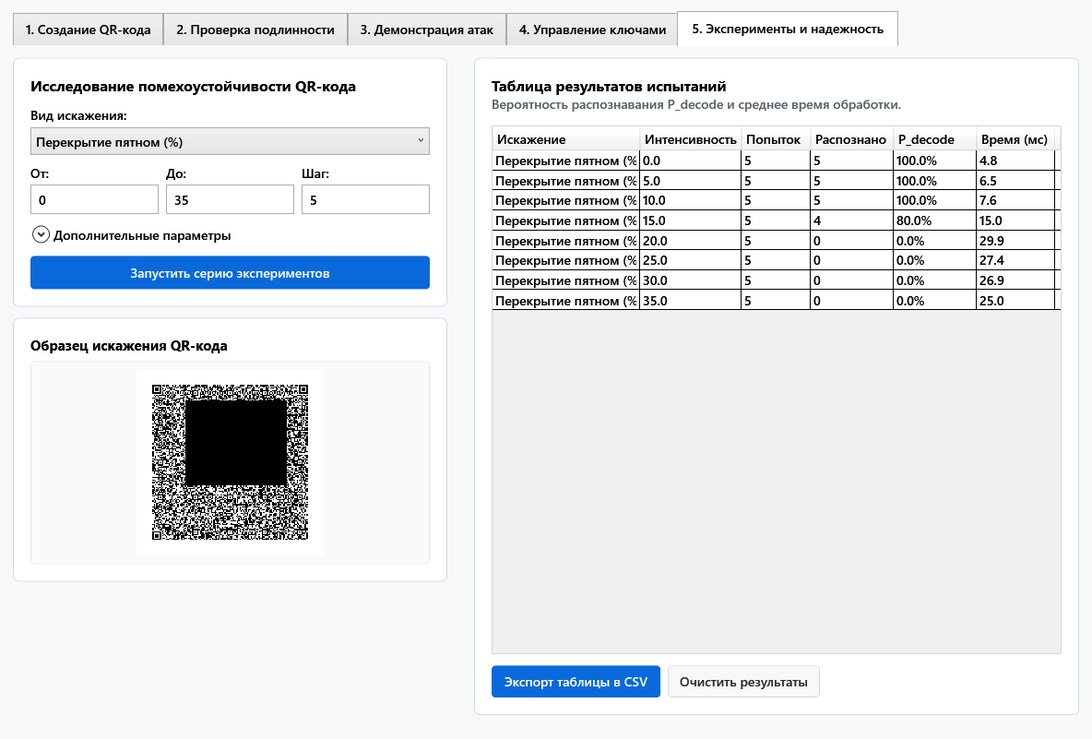
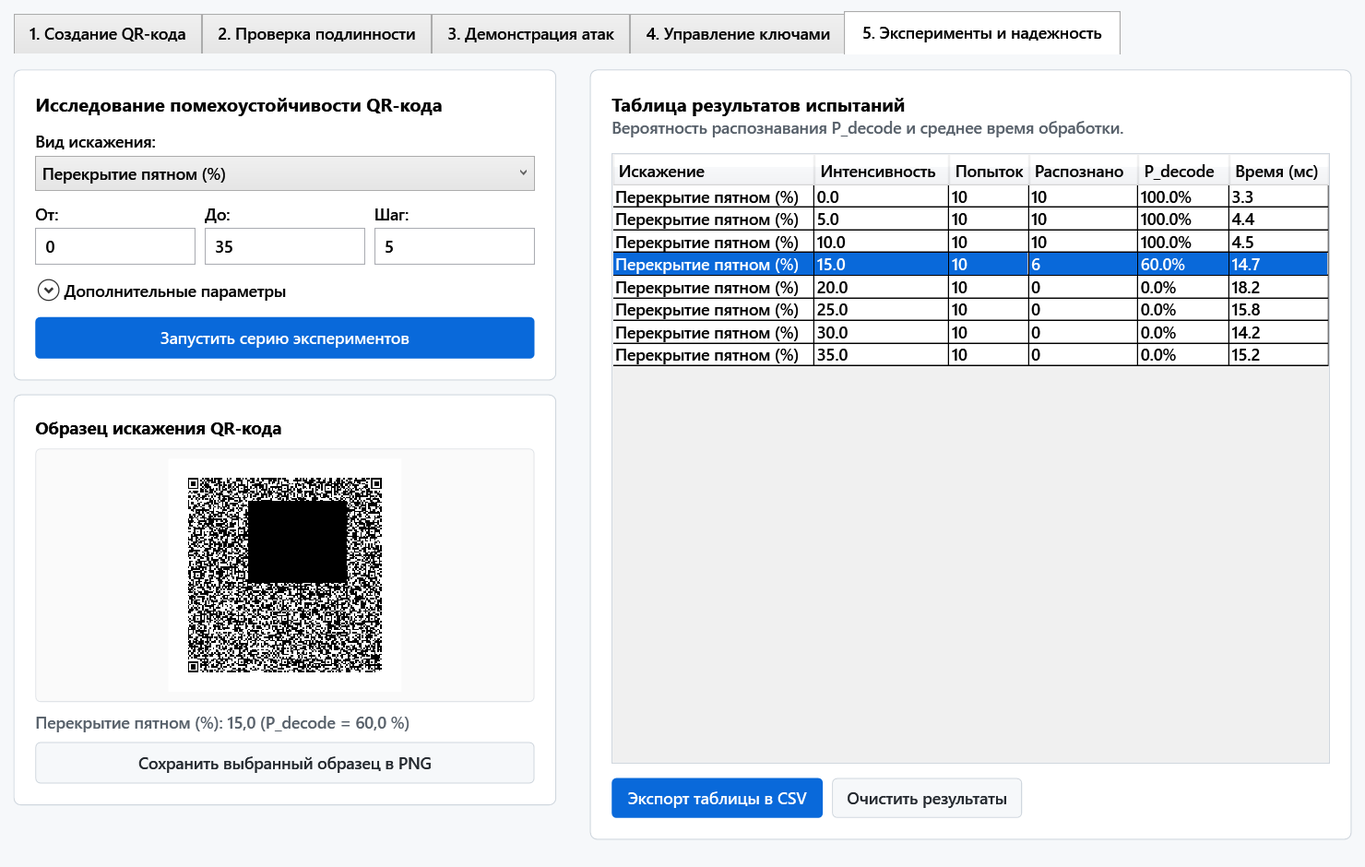
Обновление README.md: Новые фотографии

diff --git a/README.md b/README.md
@@ -12,13 +12,13 @@
    Перед подписанием реквизиты документа приводятся к детерминированному байтовому представлению в кодировке UTF-8:
    - фиксированный порядок следования полей (`v`, `alg`, `kid`, `data`);
    - нормализация строк (обрезка краевых пробелов);
-   - стандартное представление дат (`yyyy-MM-dd`);
+   - представление дат в формате `dd.MM.yyyy`;
    - отсутствие лишних пробельных символов и отступов.
 2. **Формирование цифровой подписи (`SignatureService`)**:  
    Над каноническим байтовым массивом вычисляется цифровая подпись по современному криптографическому стандарту RSA-PSS с использованием хеш-функции SHA-256 (длина ключа 2048 или 3072 бит).
 3. **Компактное кодирование (`Base64Url`)**:  
    Двоичная подпись кодируется в безопасный для URL и QR-сканеров формат Base64URL (без символов `+`, `/` и без хвостового выравнивания `=`).
-4. **Формат контейнера (`SignedPayload`)**:
+4. **Формат контейнера (`SignedPayload`)**. Подписанный JSON перед шифрованием имеет следующую структуру.
    ```json
    {
    	"v": 1,
@@ -27,14 +27,14 @@
    	"data": {
    		"document": "DOC-2026-49328",
    		"owner": "Иванов Иван Иванович",
-   		"issued": "2026-09-18",
-   		"expires": "2031-09-18"
+		"issued": "23.11.2026",
+		"expires": "23.11.2031"
    	},
    	"signature": "O_8xN-3V..."
    }
    ```
-5. **Модель доверия (`TrustedKeyStore`)**:  
-   Проверяющая сторона никогда не доверяет открытому ключу, извлеченному из самого QR-кода. Проверка подписи осуществляется исключительно по ключам, предварительно добавленным в локальное доверенное хранилище (`TrustedKeyStore`), сопоставляемым по отпечатку `kid`.
+5. **Шифрование контейнера (`PayloadEncryptionService`)**. Подписанный JSON шифруется симметричным ключом с помощью Feistel-128-CBC. В QR-код записывается строка `ENC1.<Base64Url(IV + Ciphertext)>`.
+6. **Модель доверия (`TrustedKeyStore`)**. Открытый ключ издателя для проверки подписи выбирается из локального реестра доверенных ключей по идентификатору `kid`.
 
 ---
 
@@ -71,42 +71,44 @@ QrAuthenticity.Cutted.Tests/
 Ниже перечислены классы полного приложения внутри каталога `QrAuthenticity/`.
 
 - `Cryptography/`
-  - `KeyManager.cs` — генерация пар RSA-2048/3072, экспорт/импорт в PEM, расчет Key ID.
-  - `SignatureService.cs` — вычисление и проверка подписи RSA-PSS-SHA256.
-  - `TrustedKeyStore.cs` — реестр доверенных открытых ключей издателей.
+  - `KeyManager.cs` – генерация пар RSA-2048/3072, экспорт/импорт в PEM, расчет Key ID.
+  - `SignatureService.cs` – вычисление и проверка подписи RSA-PSS-SHA256.
+  - `FeistelCipher.cs` – симметричное шифрование Feistel-128-CBC.
+  - `PayloadEncryptionService.cs` – шифрование и расшифрование контейнера `ENC1.`.
+  - `TrustedKeyStore.cs` – реестр доверенных открытых ключей издателей.
 - `Models/`
-  - `DocumentData.cs` — доменная модель реквизитов документа с валидацией.
-  - `SignedPayload.cs` — транспортная модель подписанного контейнера.
-  - `VerificationResult.cs` — статусная модель проверки подлинности.
-  - `ExperimentResult.cs` — модель измерений устойчивости к помехам.
-  - `TrustedKeyEntry.cs` — запись доверенного ключа с метаданными.
+  - `DocumentData.cs` – доменная модель реквизитов документа с валидацией.
+  - `SignedPayload.cs` – транспортная модель подписанного контейнера.
+  - `VerificationResult.cs` – статусная модель проверки подлинности.
+  - `ExperimentResult.cs` – модель измерений устойчивости к помехам.
+  - `TrustedKeyEntry.cs` – запись доверенного ключа с метаданными.
 - `Serialization/`
-  - `PayloadCanonicalizer.cs` — канонизатор байтов для цифровой подписи.
-  - `PayloadCodec.cs` — сериализатор/десериализатор полного JSON.
-  - `Base64Url.cs` — конвертер Base64Url.
+  - `PayloadCanonicalizer.cs` – канонизатор байтов для цифровой подписи.
+  - `PayloadCodec.cs` – сериализатор/десериализатор полного JSON.
+  - `Base64Url.cs` – конвертер Base64Url.
 - `Services/`
-  - `PayloadCreationService.cs` — оркестратор создания и подписания контейнера.
+  - `PayloadCreationService.cs` – оркестратор создания и подписания контейнера.
 - `Verification/`
-  - `AuthenticityVerifier.cs` — проверка формата, доверия, подписи и срока действия.
+  - `AuthenticityVerifier.cs` – проверка формата, доверия, подписи и срока действия.
 - `QR/`
-  - `QrCodeService.cs` — генерация матриц QR с уровнями Рида-Соломона (L, M, Q, H), декодирование растра.
+  - `QrCodeService.cs` – генерация матриц QR с уровнями Рида-Соломона (L, M, Q, H), декодирование растра.
 - `Experiments/`
-  - `ImageDistortionService.cs` — 7 моделей оптических и физических искажений (наклон, шум, перекрытие, размытие и т.д.).
-  - `ExperimentRunner.cs` — выполнение серийных испытаний и расчет вероятности распознавания $P_{\text{decode}}$.
-  - `StatisticsService.cs` — выгрузка результатов серий в CSV.
-- `MainWindow.xaml` / `MainWindow.xaml.cs` — графический интерфейс (5 рабочих вкладок).
+  - `ImageDistortionService.cs` – 7 моделей оптических и физических искажений (наклон, шум, перекрытие, размытие и т.д.).
+  - `ExperimentRunner.cs` – выполнение серийных испытаний и расчет вероятности распознавания $P_{\text{decode}}$.
+  - `StatisticsService.cs` – выгрузка результатов серий в CSV.
+- `MainWindow.xaml` / `MainWindow.xaml.cs` – графический интерфейс (5 рабочих вкладок).
 
 ---
 
 ## 4. Графический интерфейс
 
 1. **Создание QR-кода**: ввод реквизитов, выбор уровня коррекции Рида-Соломона (L, M, Q, H), подпись закрытым ключом, сохранение в PNG.
-2. **Проверка подлинности**: загрузка изображения QR-кода, мгновенная верификация с цветовой индикацией статуса и извлечением реквизитов.
+2. **Проверка подлинности** – проверка QR-кода по изображению или считанному тексту с цветовой индикацией статуса и выводом реквизитов.
 3. **Демонстрация атак**:
    - _Атака 1_: изменение полей документа со старой подписью (выявление нарушения целостности).
    - _Атака 2_: переподпись чужим закрытым ключом (выявление отсутствия доверия к источнику).
 4. **Управление ключами**: создание пар RSA, экспорт закрытых и открытых ключей (PEM), ведение реестра доверенных ключей.
-5. **Эксперименты и надежность**: моделирование физических дефектов QR-кода, запуск серий, таблица результатов и экспорт данных в CSV.
+5. **Эксперименты и надежность** – моделирование искажений QR-кода, запуск и остановка серий, просмотр образцов, сохранение PNG и экспорт результатов в CSV.
 
 ---
 
@@ -172,8 +174,8 @@ dotnet build QrAuthenticity.sln -c Release-SingleFile
 
 При первом запуске программа автоматически генерирует стартовую ключевую пару **RSA-2048** («Центральный орган сертификации»), сохраняет её рядом с исполняемым файлом (внутри `app\` для `*-Standalone`) в каталогах:
 
-- `trusted-keys\trusted_keys.json` — локальный реестр доверенных открытых ключей;
-- `private-keys\<KeyID>.pem` — изолированные закрытые ключи для формирования подписи;
+- `trusted-keys\trusted_keys.json` – локальный реестр доверенных открытых ключей;
+- `private-keys\<KeyID>.pem` – изолированные закрытые ключи для формирования подписи;
 
 и сразу открывает первую вкладку с готовым демонстрационным QR-кодом.
 
@@ -183,19 +185,15 @@ dotnet build QrAuthenticity.sln -c Release-SingleFile
 
 1. В блоке **«Реквизиты документа»** введите:
    - **Номер документа** и **ФИО владельца документа** (обязательные поля);
-   - **Дату выдачи** и **Дату окончания** (если документ бессрочный, очистите поле «Дата окончания» — в контейнер запишется `null`). Дата окончания не может быть раньше даты выдачи.
-2. Выберите **уровень коррекции ошибок Рида-Соломона**:
-   - `L` (~7% повреждений) — минимальный размер матрицы;
-   - `M` (~15% повреждений);
-   - `Q` (~25% повреждений, по умолчанию) — оптимальный баланс плотности и устойчивости;
-   - `H` (~30% повреждений) — максимальная защита от затираний и пятен.
+   - **Дату выдачи** и **Дату окончания** (если документ бессрочный, очистите поле «Дата окончания» – в контейнер запишется `null`). Дата окончания не может быть раньше даты выдачи.
+2. Выберите **уровень коррекции ошибок Рида–Соломона**. Доступны `L`, `M`, `Q` и `H`. По умолчанию выбран `Q`.
 3. В блоке **«Параметры безопасности и криптографии»** при необходимости:
    - выберите **ключ для цифровой подписи (`Key ID`)** из выпадающего списка (по умолчанию активен созданный ключ);
    - оставьте **симметричный ключ приложения** по умолчанию (`QrAuthenticity-MasterKey-2026-Feistel`) или введите собственный секрет для шифрования контейнера `ENC1.` алгоритмом Feistel-128-CBC (кнопка **«Сброс»** возвращает ключ по умолчанию).
-4. Нажмите **«Сформировать QR»** — в правой части появится изображение QR-кода (`600×600 px`) и строка метрик (размер контейнера в байтах, уровень коррекции и разрешение).
+4. Нажмите **«Сформировать QR»** под реквизитами документа. Справа появятся изображение QR-кода (`600×600 px`) и строка с размером контейнера в байтах, уровнем коррекции и разрешением.
 5. Нажмите **«Сохранить в PNG»**, чтобы выгрузить QR-код в файл для печати или отправки. В нижней части левой панели можно развернуть спойлеры **«Зашифрованные данные»** (итоговая строка `ENC1....`) и **«Расшифрованные данные»** (подписанный JSON).
 
-![Вкладка 1 — Создание QR-кода](docs/screenshots/01_creation.png)
+![Вкладка 1 – Создание QR-кода](docs/screenshots/01_creation.png)
 
 ---
 
@@ -204,19 +202,19 @@ dotnet build QrAuthenticity.sln -c Release-SingleFile
 Программа поддерживает два способа передачи данных на проверку:
 
 - **Режим «Изображение QR»**: нажмите **«Загрузить из файла»** (PNG/JPG/BMP) или **«Взять сгенерированный»**, чтобы быстро проверить код с первой вкладки.
-- **Режим «Текстовые данные»**: используйте его, если QR-код отсканирован камерой смартфона (сканер телефона покажет непроницаемую строку вида `ENC1....`). Вставьте считанную строку вручную или нажмите **«Взять из текущего QR»**.
+- В режиме **«Текстовые данные»** вставьте считанную сканером строку `ENC1.…` или нажмите **«Взять из текущего QR»**.
 
 Перед запуском убедитесь, что в поле **«Симметричный ключ приложения»** указан тот же ключ, который использовался при создании QR-кода, и нажмите **«Проверить цифровую подпись и расшифровать»**.
 
 > **Важно:** если проверяется QR-код, выпущенный на другом компьютере, сначала импортируйте открытый `.pem`-ключ издателя на вкладке **«4. Управление ключами»**, иначе даже корректная подпись получит статус «Ключ издателя не доверен».
 
-![Вкладка 2 — Успешная проверка подлинности](docs/screenshots/02_verification_valid.png)
+![Вкладка 2 – Успешная проверка подлинности](docs/screenshots/02_verification_valid.png)
 
 В правой панели отображаются цветовой статус верификации (подсказку по всем статусам можно также открыть по иконке **`i`**), извлечённые реквизиты, доверие к `Key ID`, алгоритм и спойлеры со считанными/расшифрованными данными. Ниже приведены примеры неуспешной или ограниченной проверки и полная расшифровка всех возможных вердиктов:
 
-![Вкладка 2 — Текстовый режим и ошибка расшифрования](docs/screenshots/03_verification_text_wrong_key.png)
+![Вкладка 2 – Текстовый режим и ошибка расшифрования](docs/screenshots/03_verification_text_wrong_key.png)
 
-![Вкладка 2 — Срок действия документа истёк](docs/screenshots/04_verification_expired.png)
+![Вкладка 2 – Срок действия документа истёк](docs/screenshots/04_verification_expired.png)
 
 | Статус в интерфейсе                   | Цвет      | Что означает и что делать пользователю                                                                                                                                             |
 | ------------------------------------- | --------- | ---------------------------------------------------------------------------------------------------------------------------------------------------------------------------------- |
@@ -238,12 +236,12 @@ dotnet build QrAuthenticity.sln -c Release-SingleFile
 1. Загрузите исходный подписанный документ кнопкой **«Взять текущий QR»** или **«Загрузить изображение QR»**.
 2. В **Шаге 1** измените любые реквизиты (например, номер документа, ФИО или срок действия). Кнопка **«Сбросить до исходных значений документа»** возвращает исходные поля.
 3. В **Шаге 2** выберите сценарий атаки, затем нажмите **«Отправить образ на проверку»** в правой панели:
-   - **Атака 1: Подменить данные со старой подписью** — записывает в QR изменённые реквизиты со старой подписью. При проверке верификатор пересчитывает хеш канонических байтов, выявляет несоответствие подписи и выводит вердикт **«Результат проверки: Подделка обнаружена (подпись не совпала)»**.
-   - **Атака 2: Переподписать сторонним ключом** — раскрывает панель генерации ключа злоумышленника, формирует новую математически корректную подпись RSA-PSS и перешифровывает контейнер. Верификатор отклоняет такой QR с вердиктом **«Результат проверки: Отклонено (ключ не доверен)»**, так как стороннего ключа нет в локальном доверенном реестре.
+   - **Атака 1: Подменить данные со старой подписью** – записывает в QR изменённые реквизиты со старой подписью. При проверке верификатор пересчитывает хеш канонических байтов, выявляет несоответствие подписи и выводит вердикт **«Результат проверки: Подделка обнаружена (подпись не совпала)»**.
+   - **Атака 2: Переподписать сторонним ключом** – раскрывает панель генерации ключа злоумышленника, формирует новую математически корректную подпись RSA-PSS и перешифровывает контейнер. Верификатор отклоняет такой QR с вердиктом **«Результат проверки: Отклонено (ключ не доверен)»**, так как стороннего ключа нет в локальном доверенном реестре.
 
-![Вкладка 3 — Атака 1: подмена данных](docs/screenshots/05_attack1_tampered.png)
+![Вкладка 3 – Атака 1: подмена данных](docs/screenshots/05_attack1_tampered.png)
 
-![Вкладка 3 — Атака 2: переподпись сторонним ключом](docs/screenshots/06_attack2_rogue_key.png)
+![Вкладка 3 – Атака 2: переподпись сторонним ключом](docs/screenshots/06_attack2_rogue_key.png)
 
 ---
 
@@ -251,16 +249,16 @@ dotnet build QrAuthenticity.sln -c Release-SingleFile
 
 В этой вкладке выполняется полный цикл управления асимметричными ключами издателя и доверенными ключами проверяющей стороны:
 
-- **Генерация пары**: выберите длину модуля (**2048 бит** или **3072 бит**), при желании введите название издателя в поле **«Издатель / Название ключа»** и нажмите **«Сгенерировать пару»** — новая пара сразу сохраняется на диск и становится активной для подписи на вкладке 1.
+- **Генерация пары**: выберите длину модуля (**2048 бит** или **3072 бит**), при желании введите название издателя в поле **«Издатель / Название ключа»** и нажмите **«Сгенерировать пару»** – новая пара сразу сохраняется на диск и становится активной для подписи на вкладке 1.
 - **Импорт ключей (PEM)**:
-  - **«Импорт открытого ключа»** — добавляет только публичный `.pem`-файл стороннего издателя в **«Реестр доверенных открытых ключей»** (с таким ключом можно проверять его QR-коды, но нельзя подписывать новые).
-  - **«Импорт закрытого ключа»** — загружает приватный PKCS#8 `.pem`-ключ (открытая часть вычисляется автоматически) и делает его активным ключом подписи.
-- **Экспорт ключей (PEM)**: кнопки **«Экспортировать пару ключей»**, **«Экспорт открытого ключа»** и **«Экспорт закрытого ключа»** сохраняют выбранный в таблице (или текущий рабочий) ключ в формат `.pem`. Для передачи проверяющей стороне отправляйте **только открытый ключ** — закрытый ключ должен оставаться только у издателя.
+  - **«Импорт открытого ключа»** – добавляет только публичный `.pem`-файл стороннего издателя в **«Реестр доверенных открытых ключей»** (с таким ключом можно проверять его QR-коды, но нельзя подписывать новые).
+  - **«Импорт закрытого ключа»** – загружает приватный PKCS#8 `.pem`-ключ (открытая часть вычисляется автоматически) и делает его активным ключом подписи.
+- **Экспорт ключей (PEM)**: кнопки **«Экспортировать пару ключей»**, **«Экспорт открытого ключа»** и **«Экспорт закрытого ключа»** сохраняют выбранный в таблице (или текущий рабочий) ключ в формат `.pem`. Для передачи проверяющей стороне отправляйте **только открытый ключ** – закрытый ключ должен оставаться только у издателя.
 - **Работа с таблицей доверенных ключей**:
   - **Одинарный клик** по строке таблицы показывает её `Key ID`, предпросмотр открытого и закрытого PEM, а также кнопки редактирования рядом с полем названия: **`✓`** (переименовать), **`✕`** (отменить редактирование и снять выделение), **`🗑`** (удалить ключ из реестра и с диска).
   - **Двойной клик** по строке (если для этого ключа на устройстве есть закрытая часть) сразу переключает его в качестве активного ключа подписи.
 
-![Вкладка 4 — Управление ключами](docs/screenshots/07_keys_management.png)
+![Вкладка 4 – Управление ключами](docs/screenshots/07_keys_management.png)
 
 ---
 
@@ -268,18 +266,23 @@ dotnet build QrAuthenticity.sln -c Release-SingleFile
 
 Вкладка служит экспериментальным стендом для оценки помехоустойчивости QR-кода (в том числе при разных уровнях коррекции Рида-Соломона `L`/`M`/`Q`/`H`, выбранных на вкладке 1):
 
-1. Выберите **«Вид искажения»** — программа автоматически подставит рекомендуемый диапазон **От / До / Шаг**:
-   - `Поворот (градусы)`
-   - `Снижение разрешения (%)`
-   - `Перекрытие пятном (%)`
-   - `Импульсный шум (%)`
-   - `Размытие (радиус)`
-   - `Снижение контраста (%)`
-   - `Сжатие JPEG (артефакты)`
-2. При необходимости раскройте **«Дополнительные параметры»** и задайте количество **«Повторов на точку»** (по умолчанию `10`) и **«Seed (воспроизводимость)»** (по умолчанию `42`).
-3. Нажмите **«Запустить серию экспериментов»**. В реальном времени обновляются индикатор прогресса, образец искажённого QR-кода внизу слева и таблица результатов справа (количество распознаваний, вероятность `P_decode` и среднее время декодирования в миллисекундах).
-4. Нажмите **«Экспорт таблицы в CSV»**, чтобы сохранить результаты испытаний в UTF-8 CSV для построения графиков или отчёта (кнопка **«Очистить результаты»** сбрасывает таблицу).
+1. Выберите **«Вид искажения»**. Программа подставит рекомендуемые значения **«От»**, **«До»** и **«Шаг»**. Допустимые границы указаны в подсказках полей. Значение **«От»** должно быть не больше **«До»**, шаг должен быть положительным.
 
-![Вкладка 5 — Результаты экспериментов по помехоустойчивости](docs/screenshots/08_experiments_results.png)
+   | Вид искажения | Допустимая интенсивность |
+   | --- | --- |
+   | Поворот (градусы) | 0–360° |
+   | Снижение разрешения (%) | 0–100 % |
+   | Перекрытие пятном (%) | 0–100 % |
+   | Импульсный шум (%) | 0–100 % |
+   | Размытие (радиус) | 0–100 px |
+   | Снижение контраста (%) | 0–100 % |
+   | Сжатие JPEG (артефакты) | 0–100 %. При интенсивности выше 30 % приложение также уменьшает разрешение перед перекодированием. |
+
+2. При необходимости раскройте **«Дополнительные параметры»** и задайте количество **«Повторов на точку»** (по умолчанию `10`) и **«Seed (воспроизводимость)»** (по умолчанию `42`).
+3. Нажмите **«Запустить серию экспериментов»**. После каждой завершённой точки в таблице появляются количество распознаваний, доля успешных распознаваний `P_decode` и среднее время декодирования в миллисекундах. Под индикатором прогресса доступна кнопка **«Остановить эксперимент»**. При остановке строки по завершённым точкам остаются в таблице.
+4. Выберите строку в таблице, чтобы увидеть образец для её интенсивности. Кнопка **«Сохранить выбранный образец в PNG»** сохраняет показанное изображение.
+5. Нажмите **«Экспорт таблицы в CSV»**, чтобы сохранить результаты в кодировке UTF-8. Кнопка **«Очистить результаты»** сбрасывает таблицу и предпросмотр.
+
+![Вкладка 5 – Таблица результатов и образец выбранного искажения](docs/screenshots/08_experiments_results.png)
 
 ---
